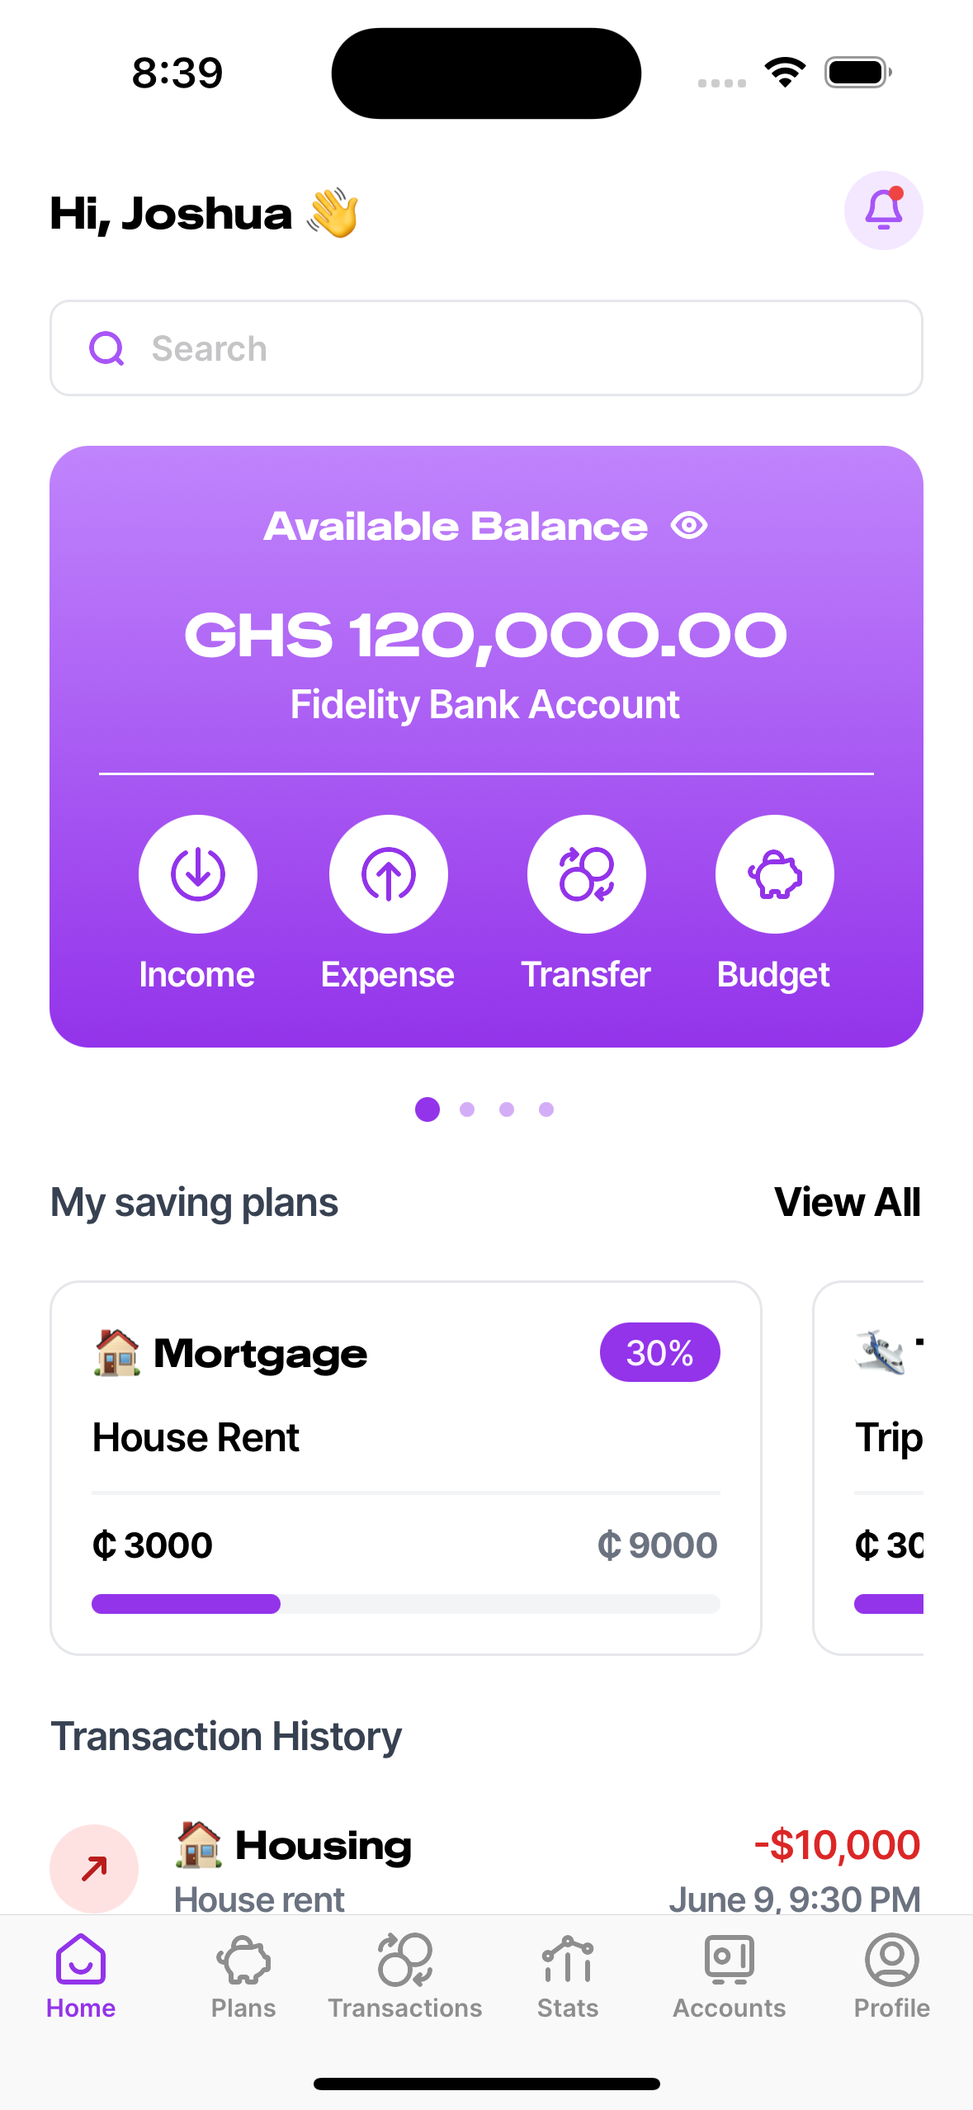
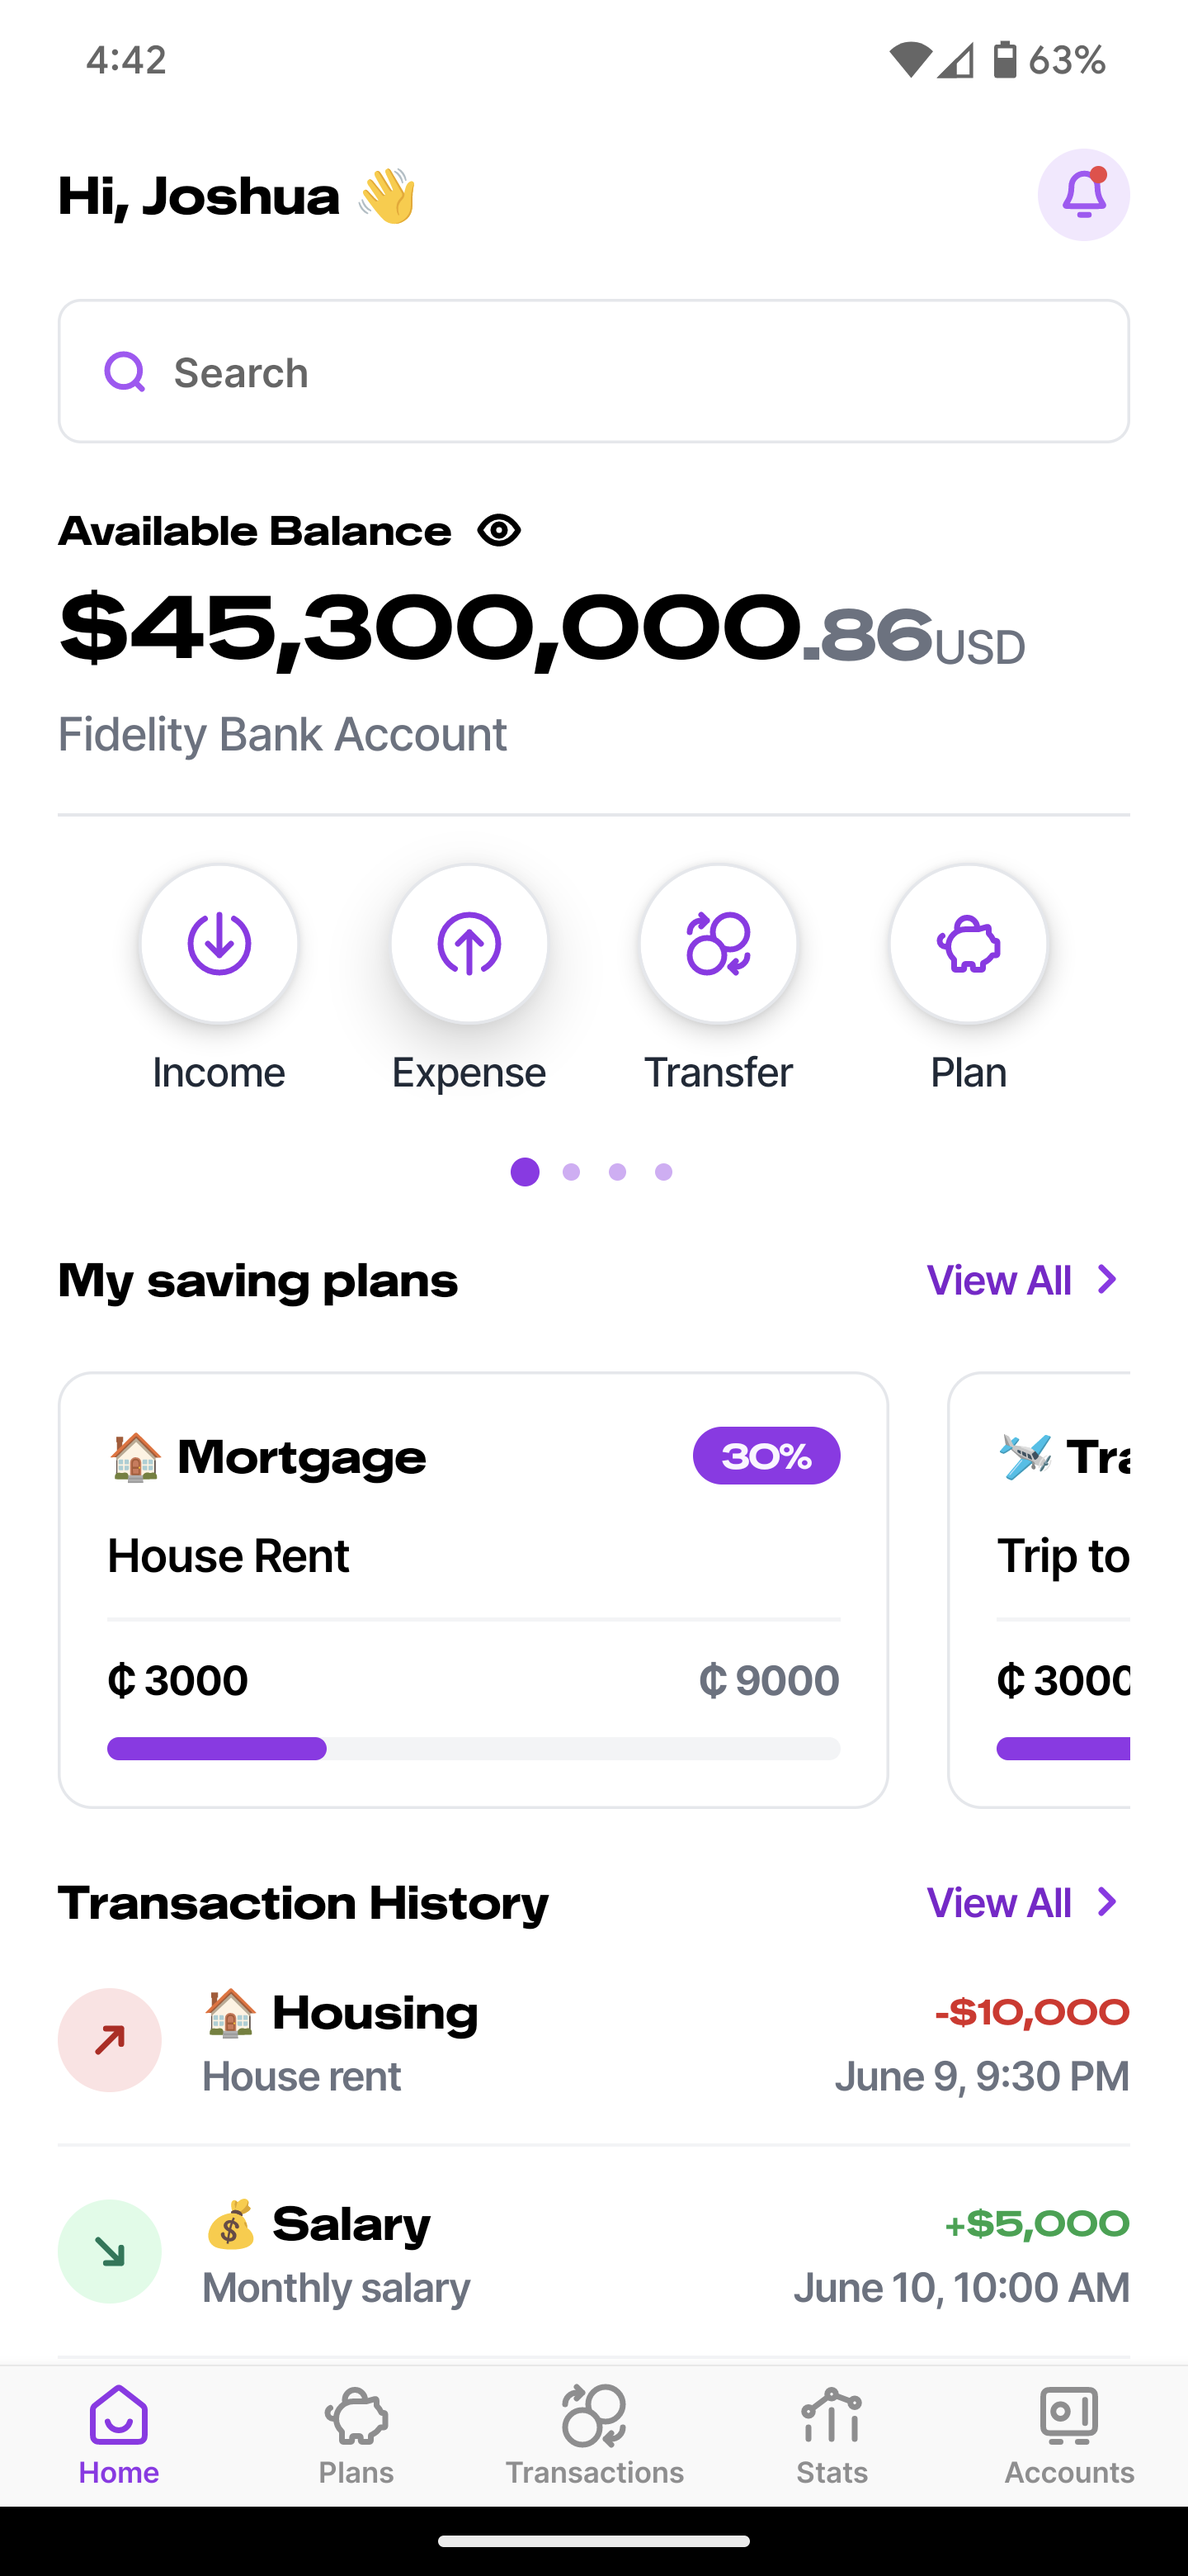
chore: add new images

diff --git a/components/Index/screens/IndexScreen.tsx b/components/Index/screens/IndexScreen.tsx
@@ -112,7 +112,7 @@ export default function IndexScreen() {
 							</TouchableOpacity>
 						</View>
 
-						<View className="w-full px-5 flex flex-col items-center justify-center mb-5">
+						{/* <View className="w-full px-5 flex flex-col items-center justify-center mb-5">
 							<View className="my-5 w-full">
 								<Image
 									source={require("@/assets/images/graphics/4.png")}
@@ -126,8 +126,8 @@ export default function IndexScreen() {
 							>
 								No plans yet
 							</Text>
-						</View>
-						{/* <FlatList
+						</View> */}
+						<FlatList
 							horizontal
 							showsHorizontalScrollIndicator={false}
 							data={savingData}
@@ -135,7 +135,7 @@ export default function IndexScreen() {
 								<SavingPlanCard data={item} index={index} />
 							)}
 							keyExtractor={(_, index) => index.toString()}
-						/> */}
+						/>
 					</View>
 
 					<TransactionHistoryList />

diff --git a/components/Index/molecules/TransactionHistoryList.tsx b/components/Index/molecules/TransactionHistoryList.tsx
@@ -212,7 +212,7 @@ export default function TransactionHistoryList() {
 						<ChevronRightIcon stroke="#9333ea" />
 					</TouchableOpacity>
 				</View>
-				<View className="w-full px-5 flex flex-col items-center justify-center mb-5">
+				{/* <View className="w-full px-5 flex flex-col items-center justify-center mb-5">
 					<View className="my-5 w-full">
 						<Image
 							source={require("@/assets/images/graphics/3.png")}
@@ -226,7 +226,7 @@ export default function TransactionHistoryList() {
 					>
 						No transactions yet
 					</Text>
-				</View>
+				</View> */}
 
 				<FlatList
 					data={transactionData}

diff --git a/README.md b/README.md
@@ -22,6 +22,13 @@ Here are a few screenshots of the app so far:
 <img src="/assets/screenshots/home.png" style="width: 150px" />
 <img src="/assets/screenshots/plans.png" style="width: 150px" />
 <img src="/assets/screenshots/receipt.png" style="width: 150px" />
+<img src="/assets/screenshots/transactions.png" style="width: 150px" />
+</div>
+
+<div style="display: flex; flex-direction: row;">
+<img src="/assets/screenshots/new-transaction.png" style="width: 150px" />
+<img src="/assets/screenshots/plans.png" style="width: 150px" />
+<img src="/assets/screenshots/new-plan.png" style="width: 150px" />
 </div>
 
 ### Building the app
